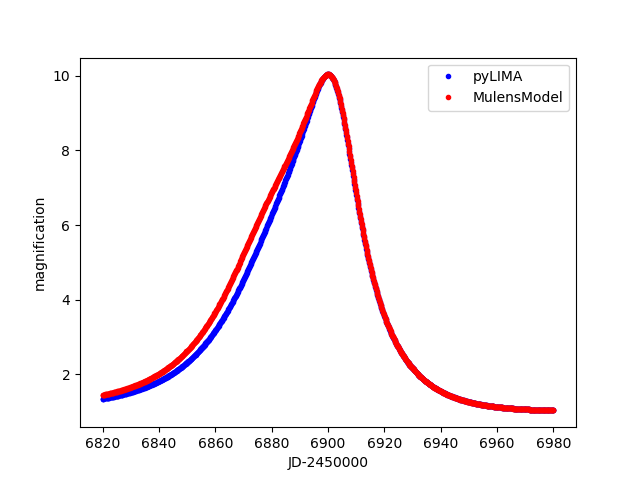
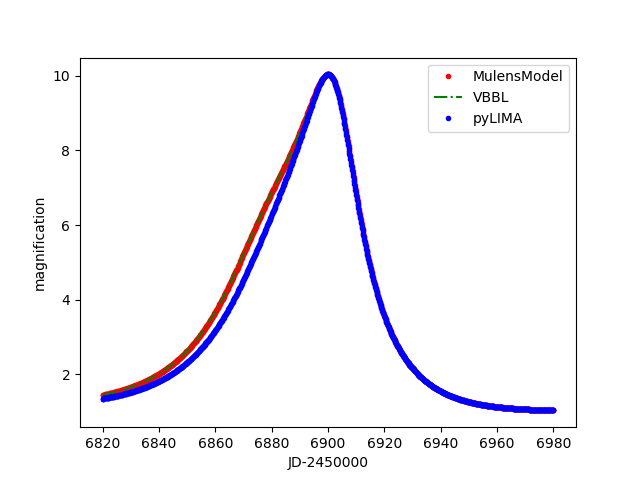
adding VBBL to compare

diff --git a/examples/run_time_tests/compare.py b/examples/run_time_tests/compare.py
@@ -12,14 +12,29 @@ import MulensModel as mm
 
 # Common settings:
 t_0 = 2456900.
-u_0 = -0.1
+u_0 = 0.1
 t_E = 150.
 pi_E_N = 1.
-pi_E_E = -2.
+pi_E_E = 2.
 ra_deg = 270.
 dec_deg = -30.
 time = np.linspace(t_0-80., t_0+80., 1000)
 d_time = 2450000.
+
+# MulensModel calculations and plot:
+coords = SkyCoord(ra_deg, dec_deg, unit=u.deg)
+params = {'t_0': t_0, 'u_0': u_0, 't_E': t_E, 'pi_E_N': pi_E_N, 'pi_E_E': pi_E_E}
+mm_model = mm.Model(params, coords=coords)
+mm_mag = mm_model.magnification(time)
+plt.plot(time-d_time, mm_mag, 'r.', label='MulensModel')
+
+# Read VBBL output and plot it:
+vbbl_data = np.loadtxt("fake.out", unpack=True)
+plt.plot(vbbl_data[0], vbbl_data[1], 'g-.', label='VBBL')
+
+# This are the changes I have to make to make the results as close as possible:
+u_0 = -u_0
+pi_E_E = -pi_E_E
 
 # pyLIMA calculations and plots:
 your_event = event.Event()
@@ -33,19 +48,14 @@ model_1 = microlmodels.create_model('PSPL', your_event, parallax=['Annual', t_0]
 model_1.define_model_parameters()
 pyLIMA_parameters = model_1.compute_pyLIMA_parameters([t_0, u_0, t_E, pi_E_N, pi_E_E])
 model = model_1.compute_the_microlensing_model(telescope_1, pyLIMA_parameters)  
-mag = model_1.model_magnification(telescope_1, pyLIMA_parameters)
-plt.plot(time-d_time, mag, 'b.', label='pyLIMA')
+mag_pyLIMA = model_1.model_magnification(telescope_1, pyLIMA_parameters)
+plt.plot(time-d_time, mag_pyLIMA, 'b.', label='pyLIMA')
 
-# This are the changes I have to make to make the things as close as possible:
-u_0 = -u_0
-pi_E_E = -pi_E_E
-
-# MulensModel calculations and plot:
-coords = SkyCoord(ra_deg, dec_deg, unit=u.deg)
-params = {'t_0': t_0, 'u_0': u_0, 't_E': t_E, 'pi_E_N': pi_E_N, 'pi_E_E': pi_E_E}
-mm_model = mm.Model(params, coords=coords)
-mm_mag = mm_model.magnification(time)
-plt.plot(time-d_time, mm_mag, 'r.', label='MulensModel')
+# Compare pyLIMA and MM:
+index = np.argmax(np.abs(mm_mag - mag_pyLIMA))
+print("Largest difference is for: ", index, time[index]-d_time)
+print("pyLIMA:", mag_pyLIMA[index])
+print("MM:", mm_mag[index])
 
 # This is the end:
 plt.legend(loc='best')

diff --git a/examples/run_time_tests/fake.cpp b/examples/run_time_tests/fake.cpp
@@ -1,0 +1,33 @@
+// g++ -lm fake.cpp ../../source/VBBL/VBBinaryLensingLibrary.o -o fake
+// ./fake > fake.out
+#include <stdio.h>
+#include <math.h>
+#include "../../source/VBBL/VBBinaryLensingLibrary.h"
+
+int main() {
+  VBBinaryLensing VBBL;
+  char coordinatefile[256] = "fake.txt";
+  char sattabledir[256] = ".";
+  const int np = 1001;
+  double t_array[np], y1_array[np], y2_array[np];
+  double mag_par_array[np];
+  double pr[5];
+
+  VBBL.parallaxsystem = 1;
+  VBBL.SetObjectCoordinates(coordinatefile, sattabledir);
+  pr[0] = 0.1;
+  pr[1] = log(150.);
+  pr[2] = 6900.; // It seems VBBL uses short JD.
+  pr[3] = 1.;
+  pr[4] = 2.;
+  for (int i = 0; i < np; i++) 
+    t_array[i] = 6820. + i * 160. / np;
+
+  VBBL.PSPLLightCurveParallax(pr, t_array, mag_par_array, y1_array, y2_array, np);
+// PSPLLightCurveParallax(double *parameters, double *t_array, double *mag_array, double *y1_array, double *y2_array, int np);
+// Parameters are {u0, log_tE, t0, pai1, pai2}
+
+  for (int i = 0; i < np; i++) 
+    printf("%lf %lf\n", t_array[i], mag_par_array[i]); 
+}
+
